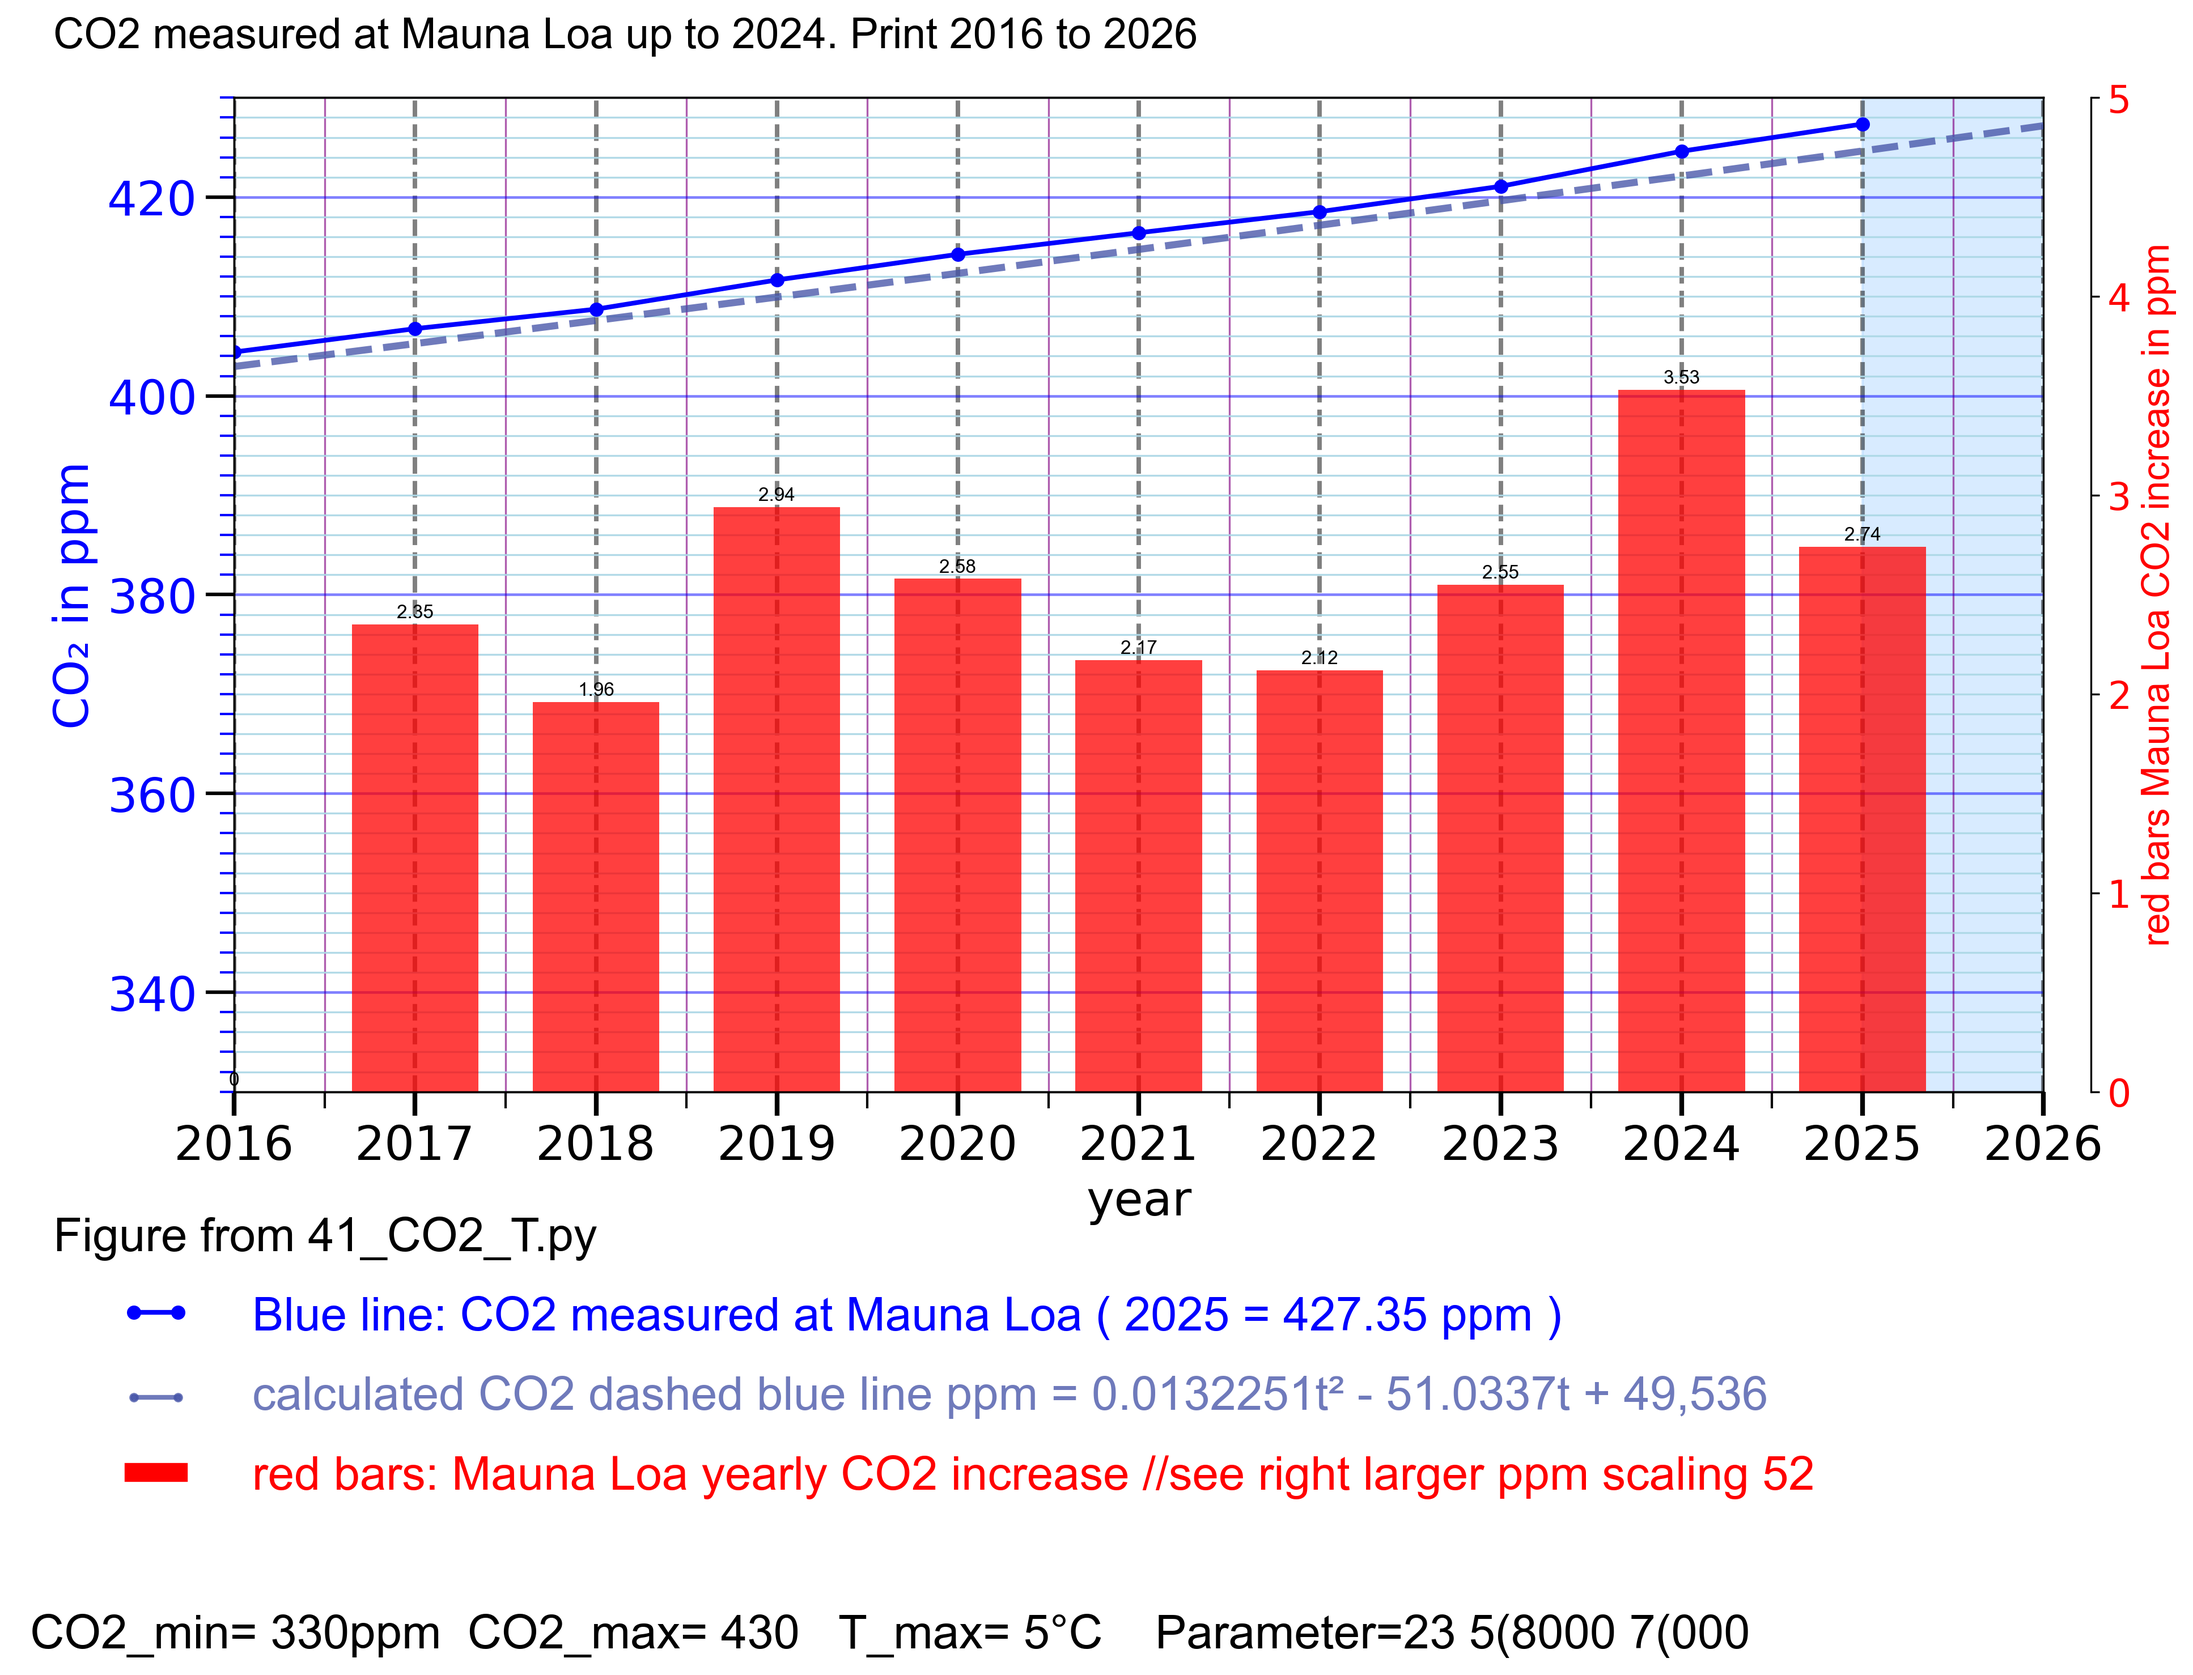
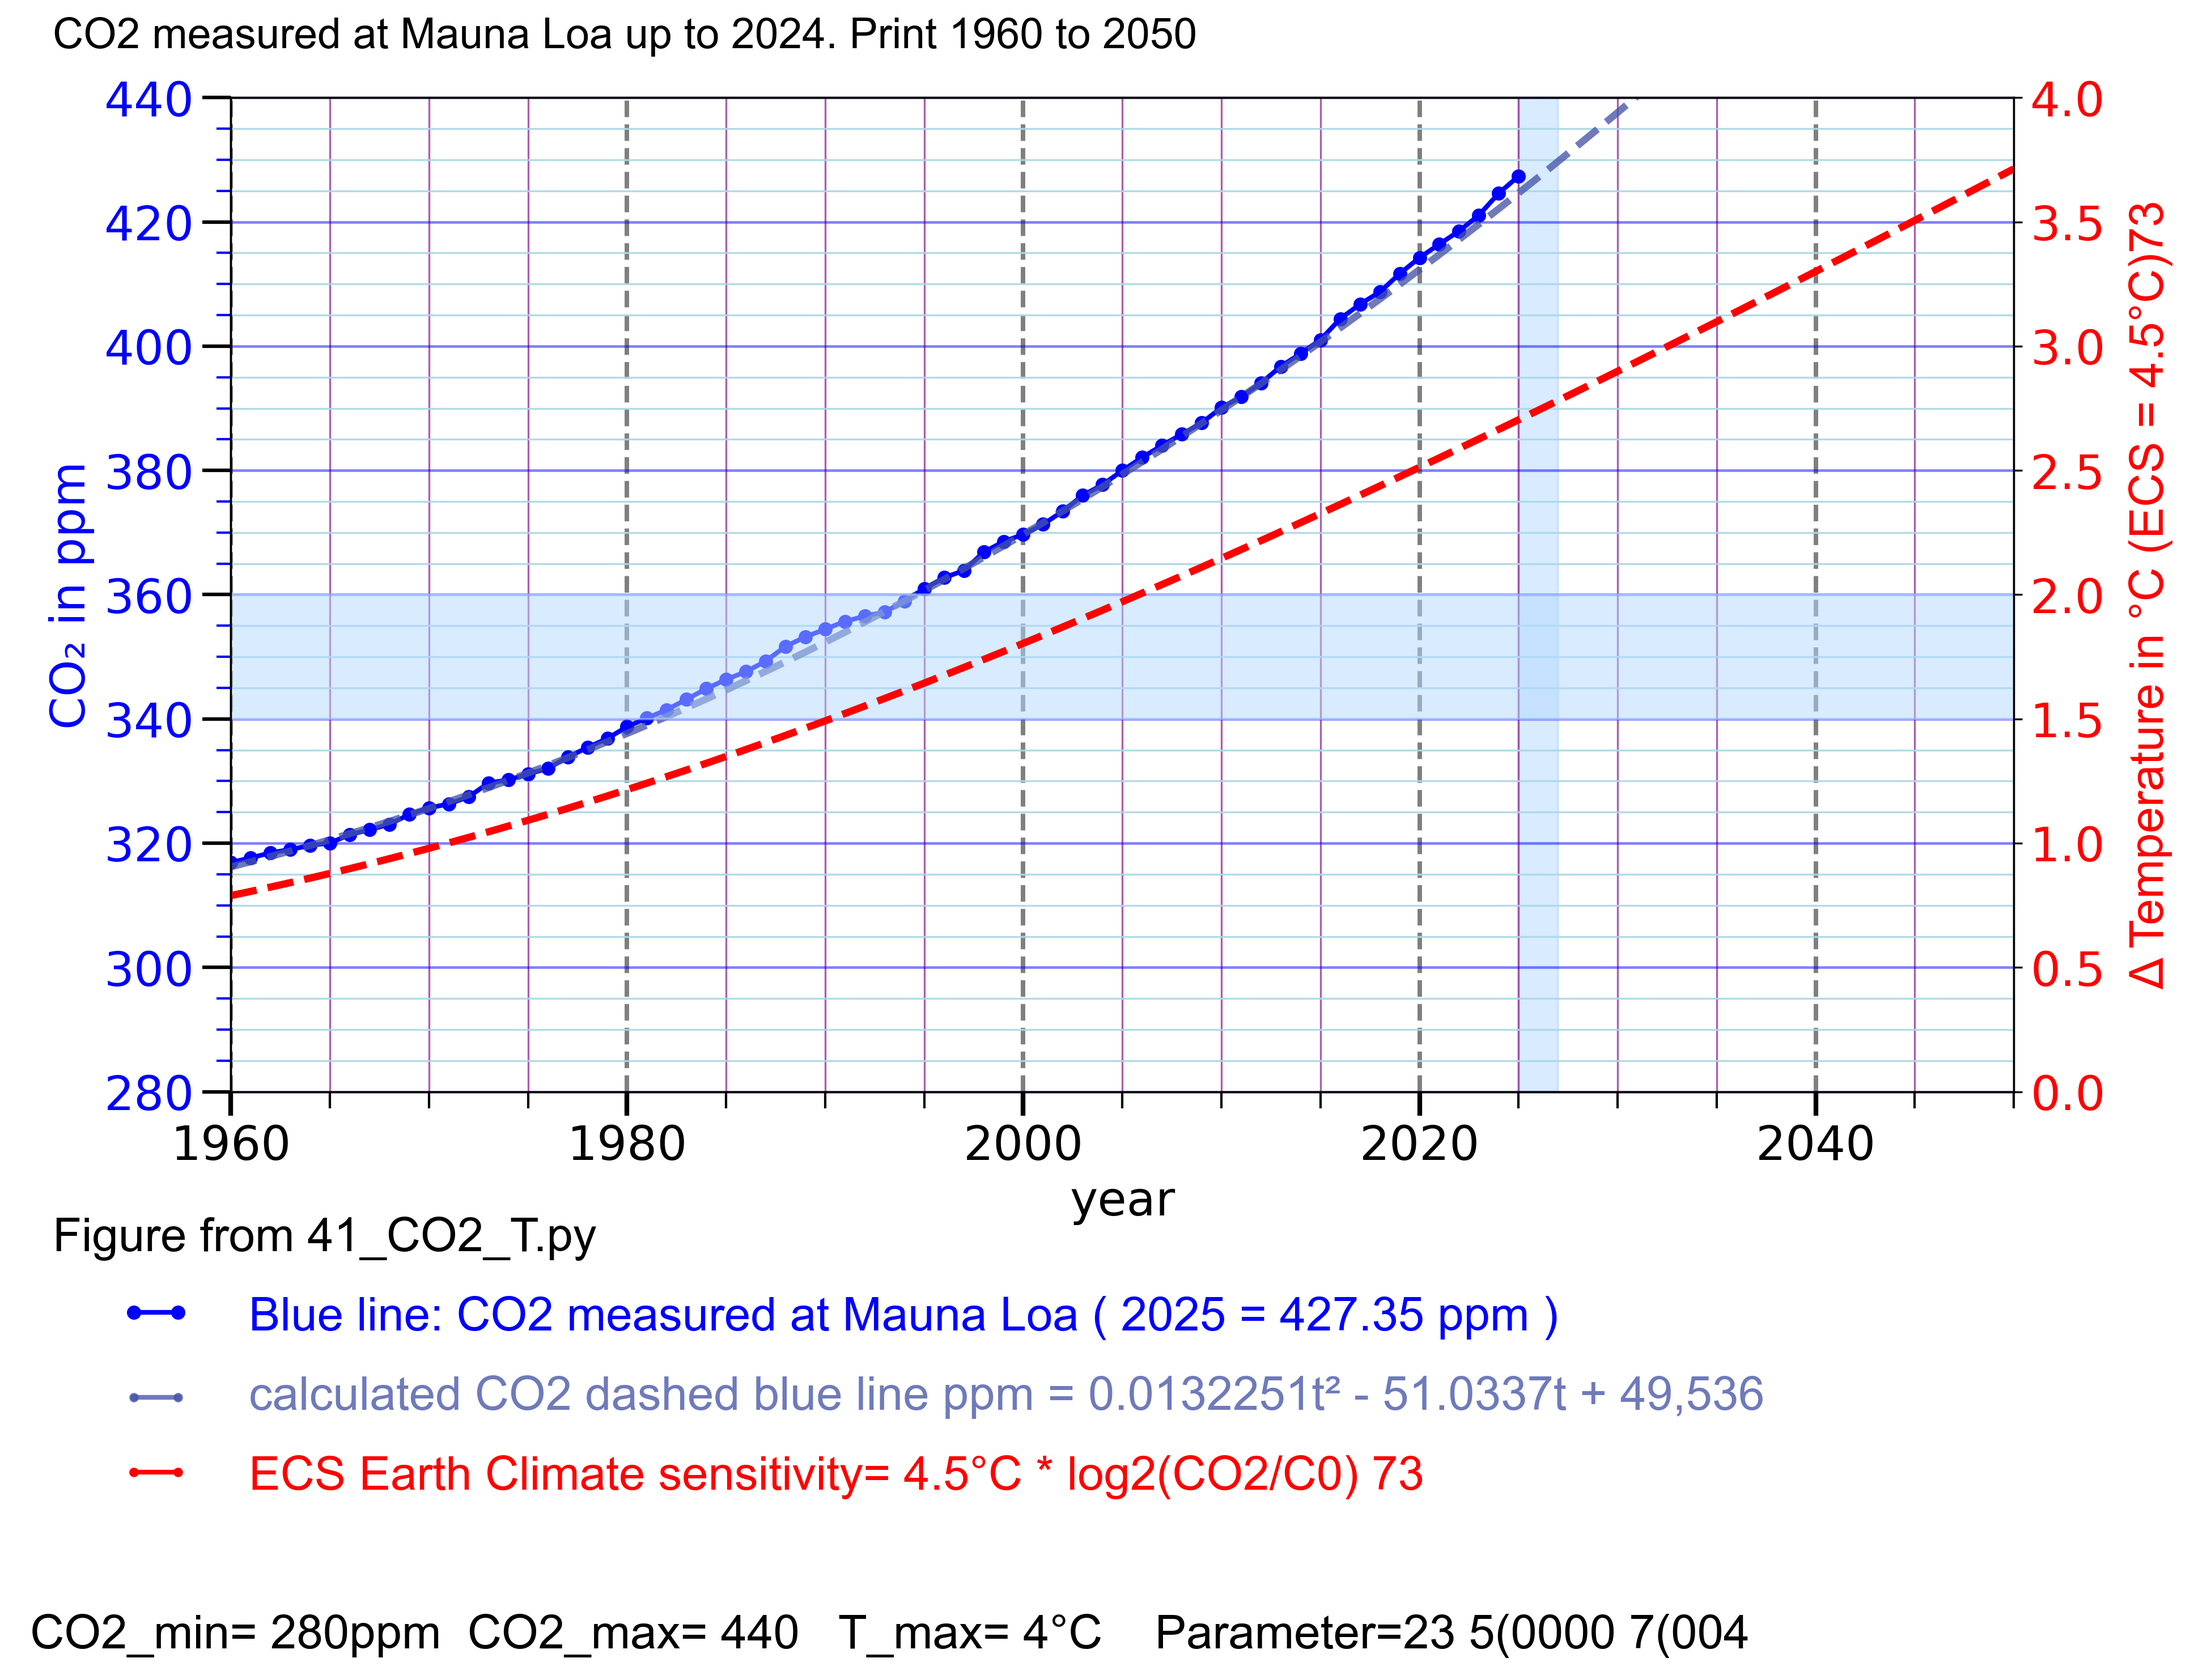
41x10_CO2_T.py

diff --git a/41_CO2_T.py b/41_CO2_T.py
@@ -1,4 +1,4 @@
-# 41x9_CO2_T.py 2.3 plot23_Glen_CO2 = 3
+# 41x10_CO2_T.py 
 # Thomas Boettcher
 # part 1 configure 
 # part 2.2 plot CO2 Mauna Loa
@@ -532,6 +532,9 @@ if plot71_temperature > 0:
    ax71.axhspan(1.5, 2.0, color="#B3D9FF", alpha=0.5, zorder=0) # color="lightblue" 2°C streifen
 elif plot72_AESS_T > 0:
    ax72.axhspan(1.5, 2.0, color="#B3D9FF", alpha=0.5, zorder=0) # color="lightblue" 2°C streifen
+elif plot73_ECS_T > 0:
+   ax73.axhspan(1.5, 2.0, color="#B3D9FF", alpha=0.5, zorder=0) # color="lightblue" 2°C streifen
+
 
 # 8.5 print the right y axis
 # 8.5.1 plot71 Achse und Beschriftung
